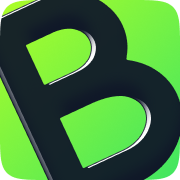
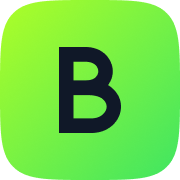
Исправления и актуализация иконок

diff --git a/src/app/(store)/support/_components/SupportForm.tsx b/src/app/(store)/support/_components/SupportForm.tsx
@@ -157,7 +157,6 @@ export const SupportForm = ({ categories }: SupportFormProps) => {
           <p className="text-sm font-medium">{state.error}</p>
         </div>
       )}
-
       {/* С чем вам требуется помощь? */}
       <div className="flex flex-col gap-4">
         <h3 className="text-center text-2xl font-medium">
@@ -187,7 +186,7 @@ export const SupportForm = ({ categories }: SupportFormProps) => {
                   "hover:border-muted-foreground transition-all duration-200",
                   "peer-checked:border-brand-secondary peer-checked:hover:border-brand-secondary peer-focus-visible:ring-brand-secondary peer-checked:ring-brand-secondary peer-checked:bg-transparent peer-checked:ring-1 peer-focus-visible:ring-2",
                   state.fieldErrors?.categoryId &&
-                    "bg-[#fff2f4]hover:border-red-300 border-red-500",
+                    "border-red-500 bg-[#fff2f4] hover:border-red-300",
                 )}
               >
                 <span className="text-muted-foreground text-xs">Категория</span>
@@ -197,13 +196,12 @@ export const SupportForm = ({ categories }: SupportFormProps) => {
           ))}
         </div>
         {state.fieldErrors?.categoryId && (
-          <div className="flex items-center gap-1.5 px-1 text-sm font-medium text-red-500">
-            <AlertCircle className="h-4 w-4 shrink-0" />
+          <div className="flex items-center gap-1.5 px-1 text-xs font-medium text-red-500">
+            <AlertCircle className="h-3.5 w-3.5 shrink-0" />
             <span>{state.fieldErrors.categoryId}</span>
           </div>
         )}
       </div>
-
       {/* Какая модель устройства? */}
       <div className="flex flex-col gap-4">
         <h3 className="text-center text-2xl font-medium">
@@ -211,7 +209,7 @@ export const SupportForm = ({ categories }: SupportFormProps) => {
           <span className="ml-1 text-red-600/60">*</span>
         </h3>
         <div className="flex">
-          <div className="flex w-full flex-col">
+          <div className="flex w-full flex-col gap-4">
             <input type="hidden" name="modelArticle" value={selectedModel} />
 
             <Popover open={isComboboxOpen} onOpenChange={setIsComboboxOpen}>
@@ -297,7 +295,6 @@ export const SupportForm = ({ categories }: SupportFormProps) => {
           </div>
         </div>
       </div>
-
       {/* Где вы приобрели устройство? */}
       <div className="flex flex-col gap-4">
         <h3 className="text-center text-2xl font-medium">
@@ -327,8 +324,8 @@ export const SupportForm = ({ categories }: SupportFormProps) => {
                     "border-ring/30 flex aspect-square flex-col justify-between rounded-2xl border p-4",
                     "hover:border-muted-foreground transition-all duration-200",
                     "peer-checked:border-brand-secondary peer-checked:hover:border-brand-secondary peer-focus-visible:ring-brand-secondary peer-checked:ring-brand-secondary peer-checked:bg-transparent peer-checked:ring-1 peer-focus-visible:ring-2",
-                    state.fieldErrors?.categoryId &&
-                      "bg-[#fff2f4]hover:border-red-300 border-red-500",
+                    state.fieldErrors?.marketplace &&
+                      "border-red-500 bg-[#fff2f4] hover:border-red-300",
                   )}
                 >
                   <span className="text-muted-foreground text-xs">
@@ -344,13 +341,12 @@ export const SupportForm = ({ categories }: SupportFormProps) => {
           })}
         </div>
         {state.fieldErrors?.marketplace && (
-          <div className="flex items-center gap-1.5 px-1 text-sm font-medium text-red-500">
-            <AlertCircle className="h-4 w-4 shrink-0" />
+          <div className="flex items-center gap-1.5 px-1 text-xs font-medium text-red-500">
+            <AlertCircle className="h-3.5 w-3.5 shrink-0" />
             <span>{state.fieldErrors.marketplace}</span>
           </div>
         )}
       </div>
-
       {/* Когда вы приобрели устройство? */}
       <div className="flex flex-col gap-4">
         <h3 className="text-center text-2xl font-medium">
@@ -367,7 +363,6 @@ export const SupportForm = ({ categories }: SupportFormProps) => {
           />
         </div>
       </div>
-
       {/* Краткое описание неисправности */}
       <div className="flex flex-col gap-4">
         <h3 className="text-center text-2xl font-medium">
@@ -384,15 +379,14 @@ export const SupportForm = ({ categories }: SupportFormProps) => {
 
         <MediaUploader />
       </div>
-
       {/* Персональная информация */}
       <div className="flex flex-col gap-4">
         <h3 className="text-center text-2xl font-medium">
           Персональная информация
         </h3>
-        <div className="flex items-center gap-3 rounded-2xl bg-[#fa6d2014] p-4 text-[#e35502]">
-          <Info className="mt-0.5 h-6 w-6 shrink-0" />
-          <p className="">
+        <div className="bg-card text-foreground flex items-center gap-3 rounded-2xl p-4">
+          <Info className="mt-0.5 h-5 w-5 shrink-0" />
+          <p className="text-sm">
             Пожалуйста, укажите корректные данные: свяжемся с вами по Telegram,
             привязанному к номеру телефона, либо напишем на почту.
           </p>
@@ -433,14 +427,26 @@ export const SupportForm = ({ categories }: SupportFormProps) => {
           * – обязательные поля
         </span>
       </div>
-
-      <Button
-        type="submit"
-        disabled={isPending}
-        className="bg-brand-secondary text-foreground hover:bg-brand-secondary/90 mt-2 h-14 w-full rounded-xl text-base font-medium transition-all disabled:cursor-not-allowed disabled:opacity-70"
-      >
-        {isPending ? "Создание обращения..." : "Создать обращение"}
-      </Button>
+      <div className="flex flex-col items-center gap-4">
+        {" "}
+        <Button
+          type="submit"
+          disabled={isPending}
+          className="bg-brand-secondary text-foreground hover:bg-brand-secondary/90 mt-2 h-14 w-full rounded-xl text-base font-medium transition-all disabled:cursor-not-allowed disabled:opacity-70"
+        >
+          {isPending ? "Создание обращения..." : "Создать обращение"}
+        </Button>
+        <p className="text-muted-foreground/80 max-w-[75%] text-center text-xs">
+          Нажимая кнопку «Создать обращение», вы подтверждаете своё согласие на{" "}
+          <a
+            href="/policies/privacy"
+            className="text-foreground/80 underline underline-offset-4 hover:no-underline"
+          >
+            обработку персональных данных
+          </a>
+          .
+        </p>
+      </div>
     </form>
   );
 };

diff --git a/src/components/ui/icons.tsx b/src/components/ui/icons.tsx
@@ -259,19 +259,28 @@ export const Icons = {
       className={className}
       {...props}
     >
-      <g clipPath="url(#clip0_741_14)">
-        <path fill="#FF0401" d="M0 0h200v200H0z" />
-        <g clipPath="url(#clip1_741_14)" fill="#fff">
-          <path d="M39.581 140c14.542 0 22.188-14.615 28.862-34.39h1.075C66.83 122.694 67.684 140 83.735 140c14.43 0 21.326-14.725 27.351-34.39h1.076c-2.8 16.768-2.048 34.39 14.43 34.39 14.431 0 22.504-14.401 25.627-34.288h-10.12c-1.187 4.404-3.235 8.704-6.999 8.704-7.86 0-3.551-13.115-.11-29.553L139.947 61H115.72s-12.818 53.416-22.94 53.416c-7.432 0-3.77-14.614-.647-29.773L96.987 61H72.76c-4.523 17.732-14.106 53.416-23.049 53.416-2.91 0-3.66-1.83-3.66-4.19 0-1.507.426-3.117.972-4.514H24.834C23.648 110.439 23 114.953 23 119.577 23 131.186 27.31 140 39.581 140zm126.001 0c6.357 0 11.418-4.947 11.418-11.285 0-6.337-5.061-11.284-11.418-11.284-6.357 0-11.418 4.94-11.418 11.284 0 6.345 5.061 11.285 11.418 11.285z" />
-        </g>
-      </g>
+      <rect
+        width="200"
+        height="200"
+        rx="42"
+        fill="url(#paint0_linear_108_14)"
+      />
+      <path
+        d="M130.174 102.432C134.058 107.599 136 113.273 136 119.453C136 123.404 135.154 127.254 133.461 131.003C131.768 134.752 129.378 138.045 126.29 140.881C123.104 143.82 119.369 146.099 115.087 147.72C110.805 149.24 106.274 150 101.494 150H64V50H94.6224C103.884 50 111.552 52.7862 117.627 58.3587C120.415 60.9929 122.556 64.0324 124.05 67.4772C125.643 70.922 126.44 74.5188 126.44 78.2675C126.44 83.4347 124.996 88.1966 122.108 92.5532C121.809 93.1611 121.411 93.7183 120.913 94.2249C124.598 96.4539 127.685 99.1895 130.174 102.432ZM80.8797 88.7538H94.1743C96.4647 88.7538 98.2075 88.6525 99.4025 88.4498C100.697 88.2472 101.942 87.8926 103.137 87.386C103.137 87.386 103.635 87.1327 104.631 86.6261C105.726 86.0182 106.822 84.9544 107.917 83.4347C109.012 81.8136 109.56 80.0912 109.56 78.2675C109.56 75.4306 108.465 72.999 106.274 70.9726C103.685 68.4397 99.8008 67.1733 94.6224 67.1733H80.8797V88.7538ZM114.938 128.267C117.826 125.633 119.27 122.695 119.27 119.453C119.27 117.021 118.473 114.792 116.88 112.766C115.286 110.74 113.394 109.271 111.203 108.359C107.519 106.738 102.788 105.927 97.0124 105.927H80.8797V132.979H101.494C107.071 132.979 111.552 131.408 114.938 128.267Z"
+        fill="#101828"
+      />
       <defs>
-        <clipPath id="clip0_741_14">
-          <rect width="200" height="200" rx="42.5" fill="#fff" />
-        </clipPath>
-        <clipPath id="clip1_741_14">
-          <path fill="#fff" transform="translate(23 61)" d="M0 0h154v79H0z" />
-        </clipPath>
+        <linearGradient
+          id="paint0_linear_108_14"
+          x1="0"
+          y1="0"
+          x2="200"
+          y2="200"
+          gradientUnits="userSpaceOnUse"
+        >
+          <stop stopColor="#AEFE27" />
+          <stop offset="1" stopColor="#3FE562" />
+        </linearGradient>
       </defs>
     </svg>
   ),

diff --git a/src/app/(store)/partnership/_components/PartnershipForm.tsx b/src/app/(store)/partnership/_components/PartnershipForm.tsx
@@ -101,24 +101,26 @@ export const PartnershipForm = () => {
         * – обязательные поля
       </span>
 
-      <Button
-        type="submit"
-        disabled={isPending}
-        className="bg-brand-secondary text-foreground hover:bg-brand-secondary/90 mt-2 h-14 w-full rounded-xl text-base font-medium transition-all disabled:cursor-not-allowed disabled:opacity-70"
-      >
-        {isPending ? "Отправка..." : "Оставить заявку"}
-      </Button>
-
-      <p className="text-muted-foreground mt-2 text-center text-sm">
-        Нажимая кнопку, вы соглашаетесь с{" "}
-        <a
-          href="/policies/privacy"
-          className="text-foreground underline underline-offset-4 hover:no-underline"
+      <div className="flex flex-col items-center gap-4">
+        {" "}
+        <Button
+          type="submit"
+          disabled={isPending}
+          className="bg-brand-secondary text-foreground hover:bg-brand-secondary/90 mt-2 h-14 w-full rounded-xl text-base font-medium transition-all disabled:cursor-not-allowed disabled:opacity-70"
         >
-          Политикой конфиденциальности
-        </a>
-        .
-      </p>
+          {isPending ? "Отправка..." : "Оставить заявку"}
+        </Button>
+        <p className="text-muted-foreground/80 max-w-[75%] text-center text-xs">
+          Нажимая кнопку «Оставить заявку», вы подтверждаете своё согласие на{" "}
+          <a
+            href="/policies/privacy"
+            className="text-foreground/80 underline underline-offset-4 hover:no-underline"
+          >
+            обработку персональных данных
+          </a>
+          .
+        </p>
+      </div>
     </form>
   );
 };

diff --git a/src/app/(store)/support/_components/MediaUploader.tsx b/src/app/(store)/support/_components/MediaUploader.tsx
@@ -7,6 +7,7 @@ import {
   File as FileIcon,
   Loader2,
   AlertCircle,
+  Info,
 } from "lucide-react";
 import { cn } from "@/src/lib/utils";
 import { getPresignedUploadUrl } from "@/src/server/actions/media.actions";
@@ -134,6 +135,16 @@ export const MediaUploader = () => {
         }
         return null;
       })}
+
+      <h3 className="text-center text-2xl font-medium">Материалы</h3>
+
+      <div className="bg-card text-foreground flex items-center gap-3 rounded-2xl p-4">
+        <Info className="mt-0.5 h-5 w-5 shrink-0" />
+        <p className="text-sm">
+          Если на устройство действует гарантийный срок, пожалуйста, прикрепите
+          фото или скан чека о приобретении. Срок указан в гарантийном талоне.
+        </p>
+      </div>
 
       <label
         className={cn(

diff --git a/src/app/(store)/support/_components/HeroSection.tsx b/src/app/(store)/support/_components/HeroSection.tsx
@@ -23,8 +23,8 @@ export const HeroSection = () => {
             >
               «Вопросы и ответы»
             </Link>
-            , если вы хотите сообщить о неисправности, — свяжитесь с нами через
-            обращение в службу поддержки.
+            , если вы хотите сообщить о неисправности, — создайте обращение в
+            службу поддержки.
           </p>
           {WORK_SCHEDULE_INFO.isEnabled && (
             <div className="rounded-2xl bg-[#fa6d2014] p-4 text-[#e35502]">

diff --git a/src/app/(store)/about/_components/GuaranteeSection.tsx b/src/app/(store)/about/_components/GuaranteeSection.tsx
@@ -51,7 +51,7 @@ export const GuaranteeSection = () => {
                   "hover:text-foreground hover:bg-background transition-colors duration-300",
                 )}
               >
-                <Link href="/faq">Частые вопросы</Link>
+                <Link href="/faq">Вопросы и ответы</Link>
               </Button>
               <Button
                 asChild
